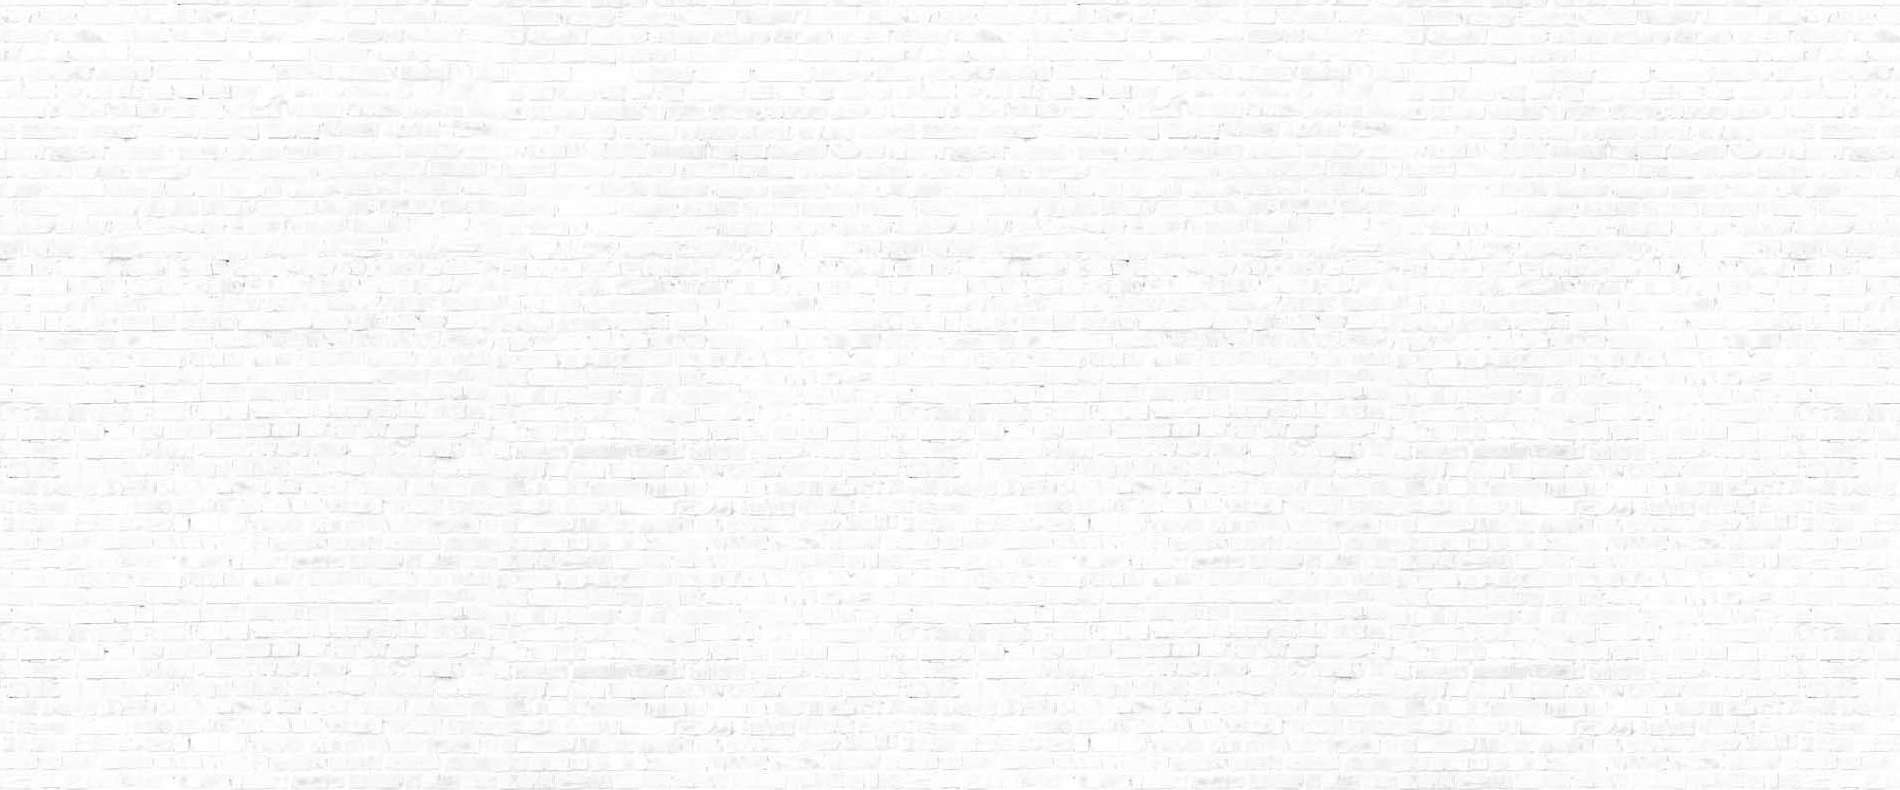
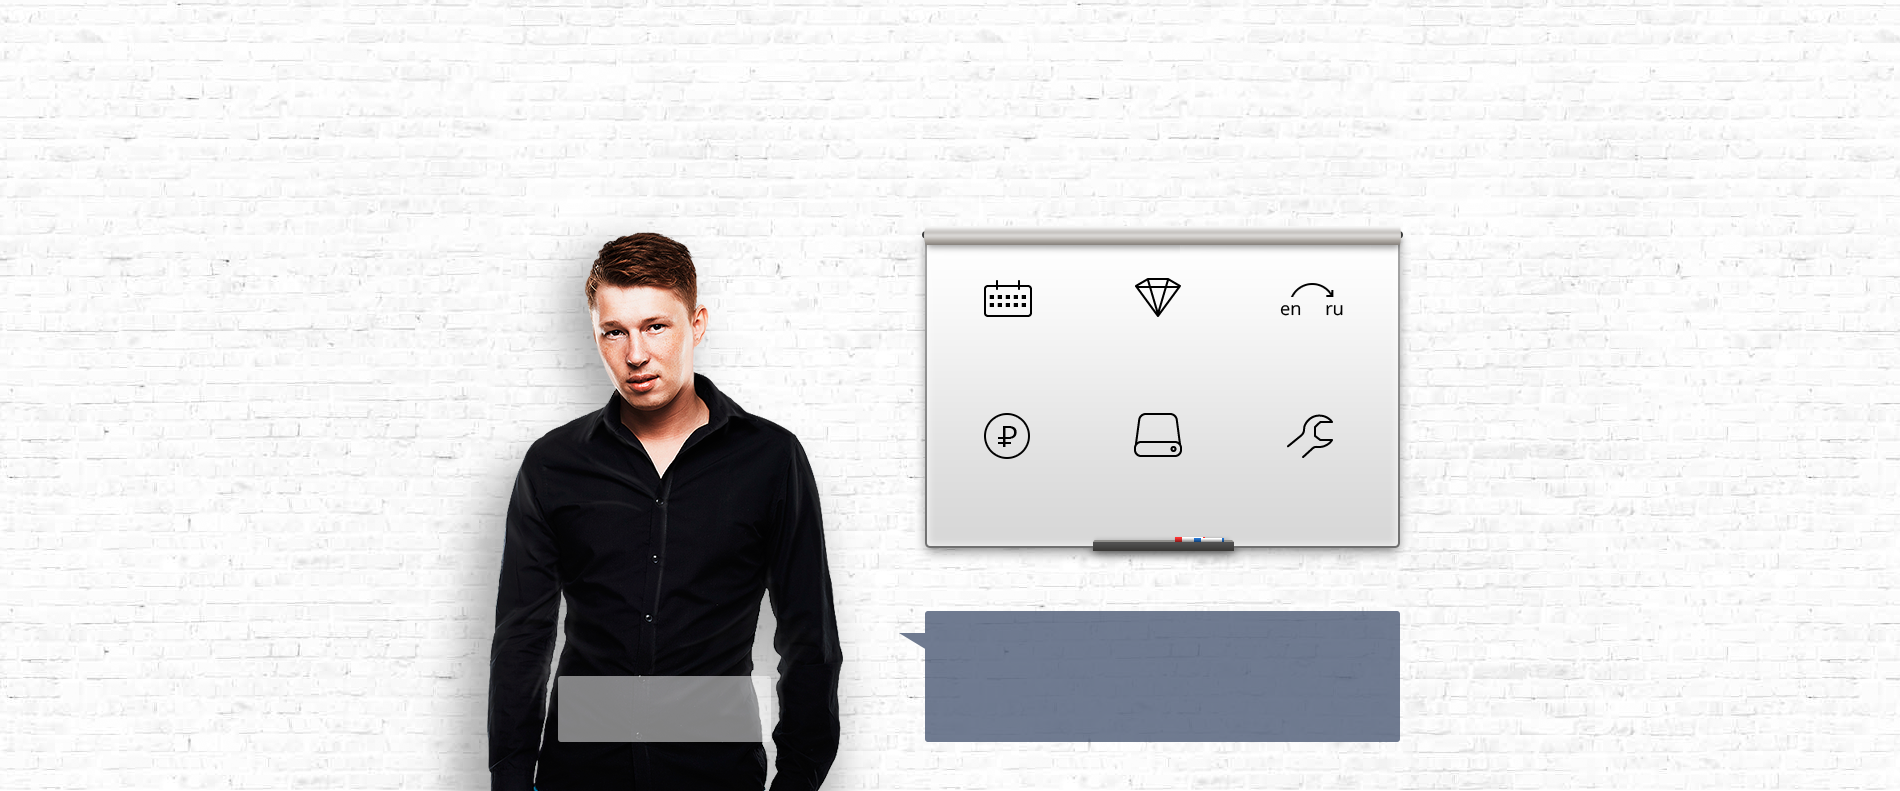
about module added

diff --git a/src/components/about/about.css b/src/components/about/about.css
@@ -1,0 +1,85 @@
+.about__container{
+  font-family:'Open Sans';
+  width:1900px;
+  height: 800px;
+  border: solid 2px red;
+  background-image: url(./img/background.png);
+  margin-left: auto;
+  margin-right:auto;
+}
+
+.about__container_content{
+  width:900px;
+  height: 800px;
+  border: solid 2px red;
+  margin-left:500px;
+}
+
+.about__container_content-h{
+  color:#df9310;
+  font-size: 36px;
+  width:600px;
+  height: 50px;
+  border: solid 2px red;
+}
+
+.about__container_content-p{
+  font-size: 16px;
+  width:600px;
+  height: 50px;
+  border: solid 2px red;
+}
+
+.about__container_content-сeo{
+  width:220px;
+  height: 70px;
+  margin-top:135px;
+  margin-left:70px;
+  border: solid 2px red;
+}
+
+.about__container_content-сeo-name{
+  font-size: 18px;
+  color:white;
+  margin-bottom:5px;
+}
+
+.about__container_content-сeo-function{
+  font-size: 14px;
+  color:white;
+  height: 30px;
+}
+
+.about__container_content-whiteboard{
+  font-size: 16px;
+  width:475px;
+  height: 285px;
+  display:flex;
+  flex-wrap:wrap;
+  margin-top:160px;
+  margin-left:430px;
+  padding-bottom:0px;
+}
+
+.about__container_content-whiteboard-elem{
+  width:150px;
+  height: 40px;
+  margin-top:55px;
+}
+
+.about__container_content-whiteboard-elem p{
+text-align:center;
+}
+
+.about__container_content-about{
+  width:500px;
+  height: 130px;
+  border: solid 2px red;
+  margin-left:420px;
+  margin-top:-135px;
+  padding-left:30px;
+  font-size: 16px;
+  font-style:italic;
+  line-height: 25px;
+  color:white;
+}
